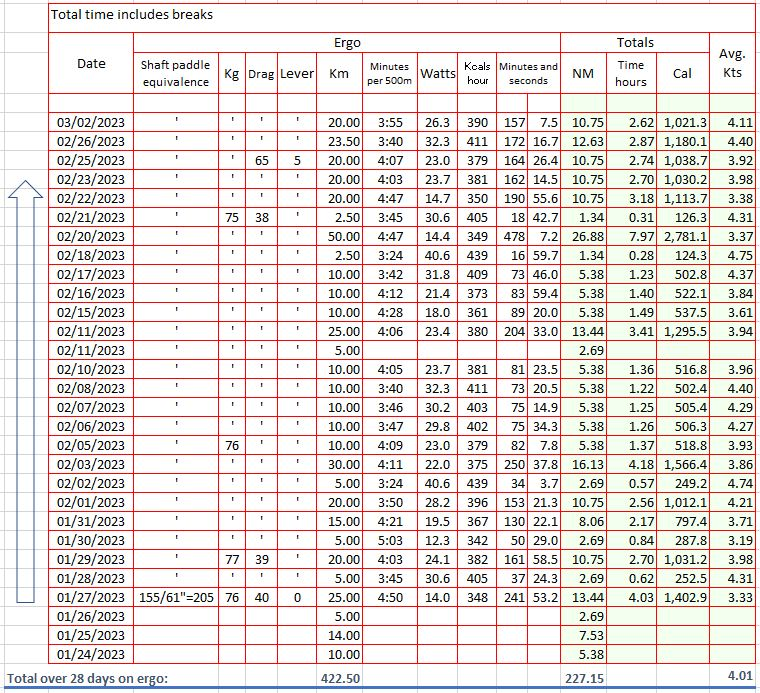
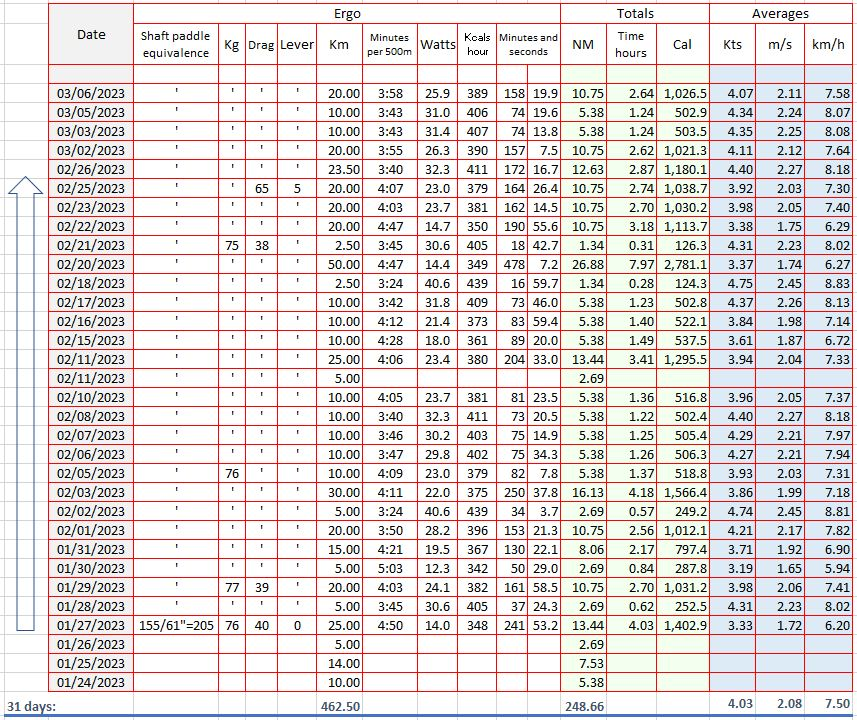
updates

diff --git a/content/dry-run/log.md b/content/dry-run/log.md
@@ -6,11 +6,11 @@ draft: false
 
 > This is not the actual trip. This is just training mapped on chart to have an idea of what the real thing might be.
 
-> March 2nd, 2023
+> March 6, 2023
 
-![March 2nd](/img/mar2.JPG)
+![March 6](/img/mar6.JPG)
 {{< center >}}
-28 days on ergo, 227 nautical miles, 422 Km
+31 days on ergo, 248 nautical miles, 462 Km
 {{< /center >}}
 
 ![Stats](/img/Stats.JPG)
